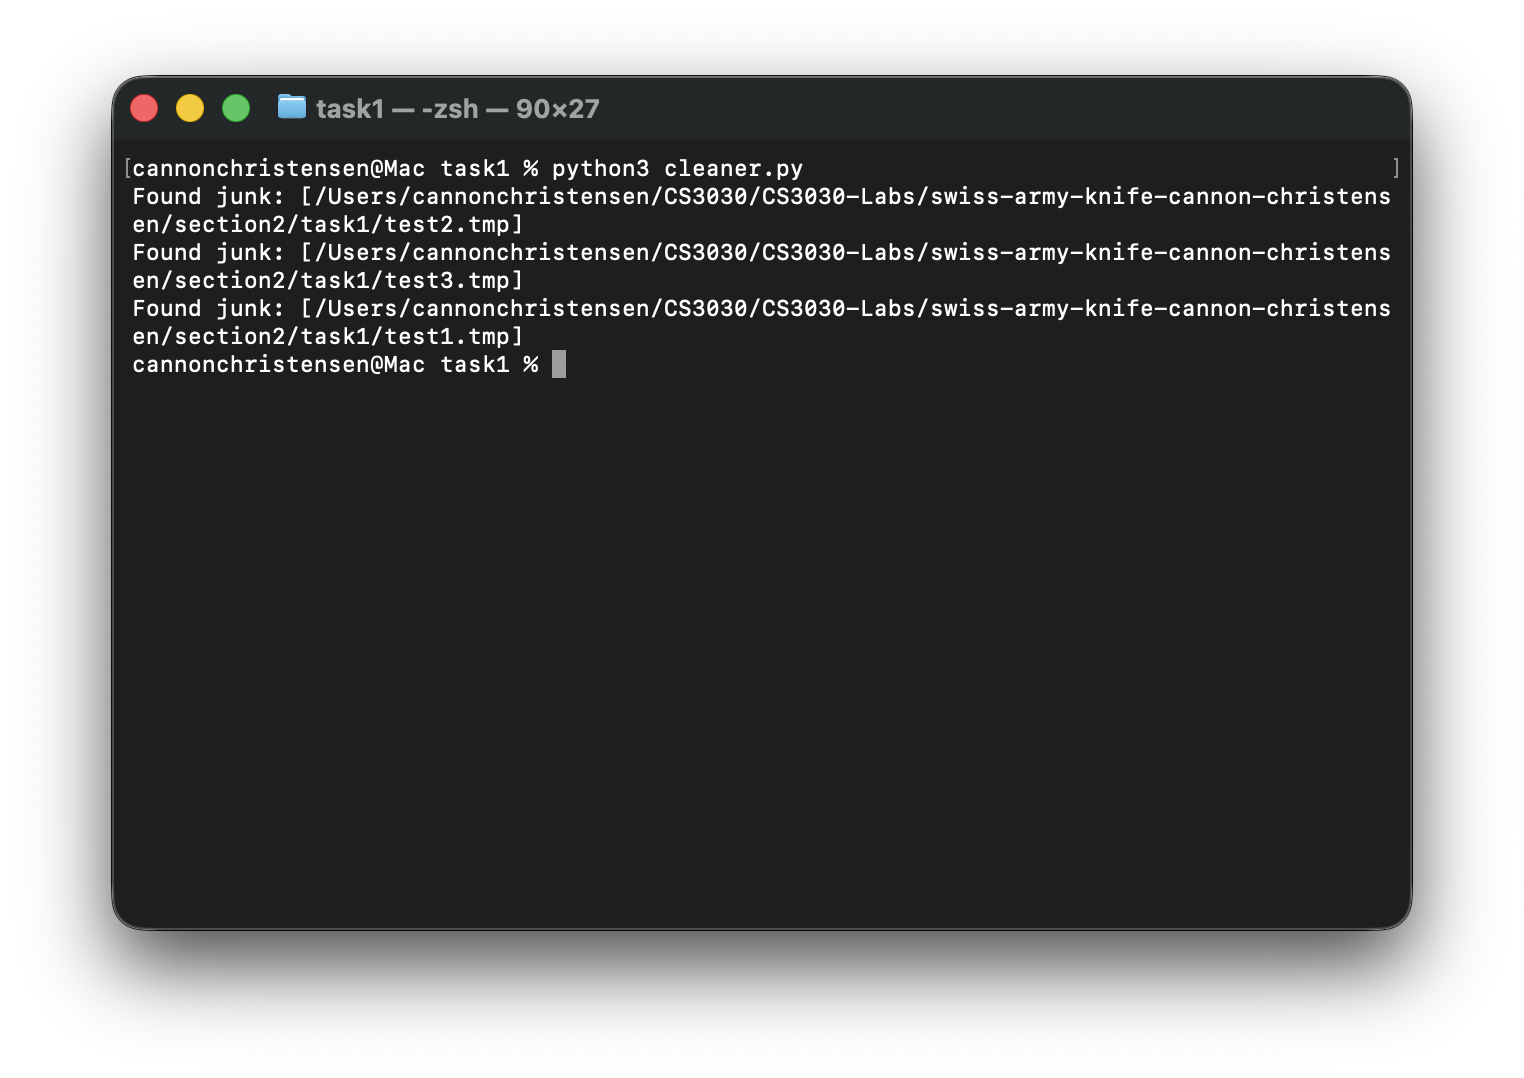
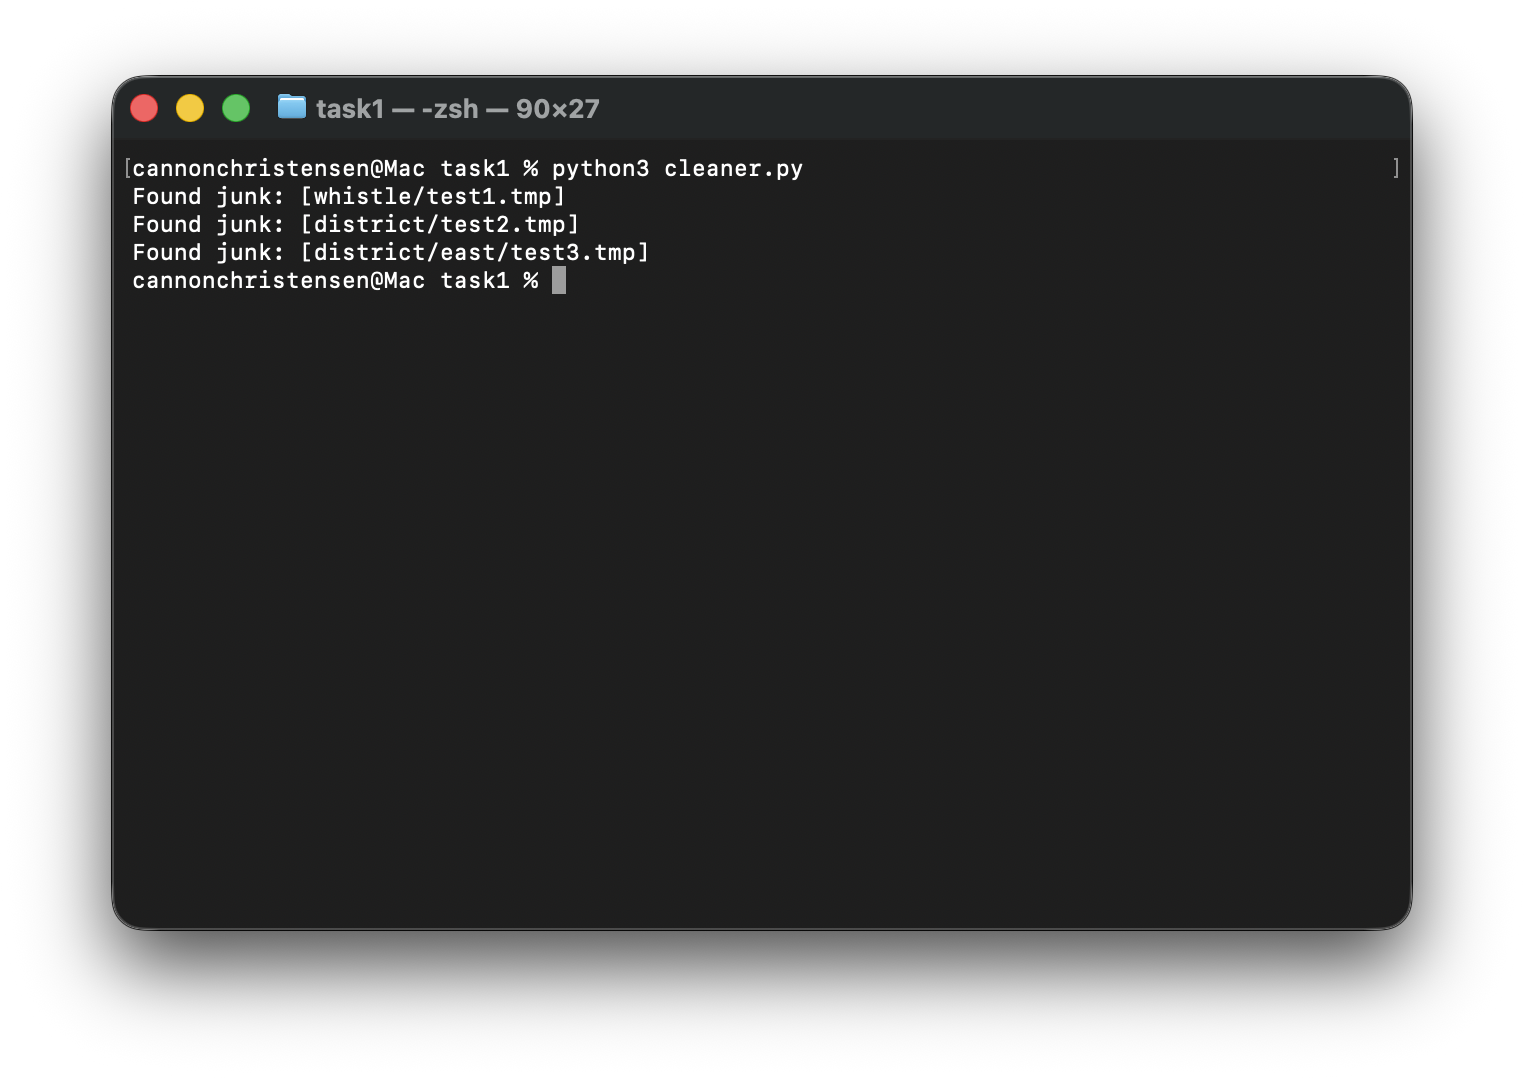
Complete all Section 2 tasks

Changed region(s): [[0.0925, 0.1531, 0.9252, 0.3673], [0.8327, 0.1531, 0.8944, 0.1837]]

diff --git a/swiss-army-knife-cannon-christensen/section2/task5/secure_exec.py b/swiss-army-knife-cannon-christensen/section2/task5/secure_exec.py
@@ -1,0 +1,21 @@
+# A malicious attacker could use the unsafe function to pass malicious input such as 
+# "; cat /etc/passwd". This is possible because the unsafe function accepts the entire 
+# input as shell input, so anything the user types will be passed into the shell. 
+# While the code contains the echo command, the user could type a semicolon (;)  
+# to end that command and pass a new command into the shell. The safe function prevents 
+# this by providing the command first, and then the input for that command, so the user 
+# can't end the command and start a new one.
+
+
+import subprocess
+
+def unsafe_run(user_input):
+	subprocess.run(f"echo {user_input}", shell=True)
+
+def safe_run(user_input):
+	subprocess.run(["echo", user_input])
+	
+print("Enter input:")
+new_input = input()
+unsafe_run(new_input)
+safe_run(new_input)

diff --git a/swiss-army-knife-cannon-christensen/section2/task4/toolbox.py b/swiss-army-knife-cannon-christensen/section2/task4/toolbox.py
@@ -1,0 +1,16 @@
+import argparse
+from pathlib import Path
+
+parser = argparse.ArgumentParser(
+	prog="Toolbox", 
+	description="Search a specified directory and its subdirectories for files with a specified extension. This tool will print the relative paths of matching files.",
+	epilog="Example: toolbox --path pathToSearch --ext txt")
+parser.add_argument("--path", required=True, help="Specify the directory to search within")
+parser.add_argument("--ext", required=True, help="Specify the file extension to search for")
+args = parser.parse_args()
+
+target_directory = args.path
+files = Path(target_directory).rglob("*." + args.ext)
+
+for f in files:
+	print("Found junk: [" + str(f) + "]")

diff --git a/swiss-army-knife-cannon-christensen/section2/task1/cleaner.py b/swiss-army-knife-cannon-christensen/section2/task1/cleaner.py
@@ -1,7 +1,7 @@
 from pathlib import Path
 
 target_directory = '.'
-files = Path(target_directory).cwd().rglob("*.tmp")
+files = Path(target_directory).rglob("*.tmp")
 
 for f in files:
 	print("Found junk: [" + str(f) + "]")

diff --git a/swiss-army-knife-cannon-christensen/section2/README.md b/swiss-army-knife-cannon-christensen/section2/README.md
@@ -1,0 +1,4 @@
+# Section 2
+
+## Security Report
+Developers should never use `shell=True` with unvalidated user input because it could allow the user to inject malicious commands. The user can type a semicolon (;) to end the current command and enter their own command. This can be prevented by passing arguments as a list, because that method defines the command first and then the user can only pass arguments to that command.
